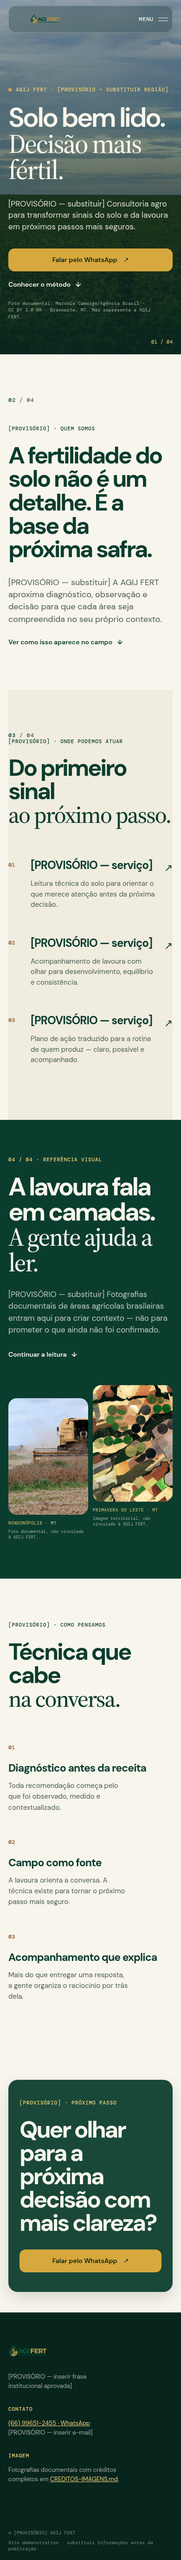
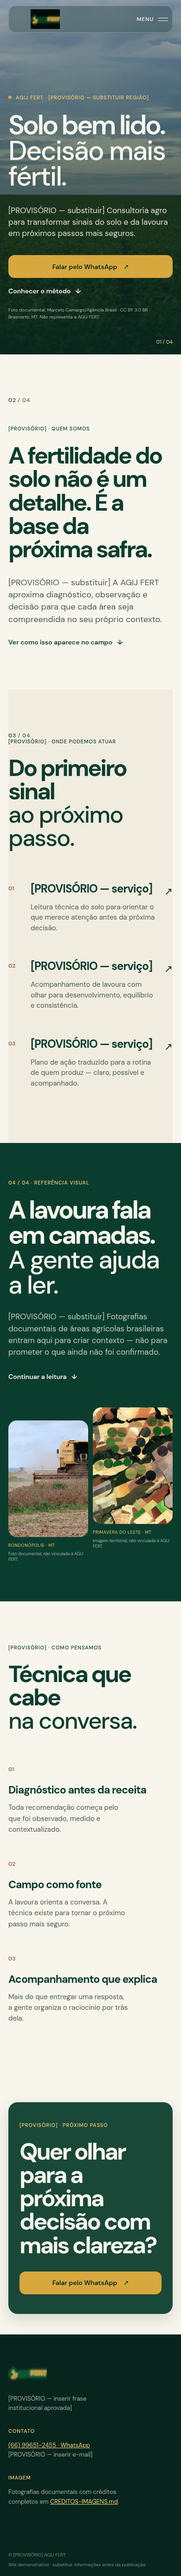
perf: optimize production assets and font loading

diff --git a/src/App.jsx b/src/App.jsx
@@ -17,10 +17,10 @@ const principles = [
   ['03', 'Acompanhamento que explica', 'Mais do que entregar uma resposta, a gente organiza o raciocínio por trás dela.'],
 ]
 
-function ImageFrame({ src, alt, label, caption, className = '' }) {
+function ImageFrame({ src, srcSet, sizes = '(max-width: 760px) 50vw, 45vw', width, height, alt, label, caption, className = '' }) {
   return (
     <figure className={`image-frame ${className}`}>
-      <img src={src} alt={alt} loading="lazy" decoding="async" />
+      <img src={src} srcSet={srcSet} sizes={sizes} width={width} height={height} alt={alt} loading="lazy" decoding="async" />
       <figcaption><span>{label}</span>{caption}</figcaption>
     </figure>
   )
@@ -129,7 +129,7 @@ export default function App() {
         <section className="field-section" id="campo" aria-labelledby="field-title">
           <div className="shell field-layout">
             <div className="field-copy"><p className="eyebrow light">04 / 04 · Referência visual</p><h2 id="field-title">A lavoura fala em camadas. <em>A gente ajuda a ler.</em></h2><p>[PROVISÓRIO — substituir] Fotografias documentais de áreas agrícolas brasileiras entram aqui para criar contexto — não para prometer o que ainda não foi confirmado.</p><a className="text-link light-link" href="#principios">Continuar a leitura <span aria-hidden="true">↓</span></a></div>
-            <div className="field-gallery"><ImageFrame src={images.harvest} alt="Lavoura de soja durante colheita em Rondonópolis, Mato Grosso" label="Rondonópolis · MT" caption="Foto documental, não vinculada à AGIJ FERT." /><ImageFrame src={images.satellite} alt="Imagem aérea de áreas agrícolas em Primavera do Leste, Mato Grosso" label="Primavera do Leste · MT" caption="Imagem territorial, não vinculada à AGIJ FERT." /></div>
+            <div className="field-gallery"><ImageFrame src={images.harvest} srcSet={images.harvestSrcSet} width="900" height="643" alt="Lavoura de soja durante colheita em Rondonópolis, Mato Grosso" label="Rondonópolis · MT" caption="Foto documental, não vinculada à AGIJ FERT." /><ImageFrame src={images.satellite} srcSet={images.satelliteSrcSet} width="900" height="434" alt="Imagem aérea de áreas agrícolas em Primavera do Leste, Mato Grosso" label="Primavera do Leste · MT" caption="Imagem territorial, não vinculada à AGIJ FERT." /></div>
           </div>
         </section>
 

diff --git a/src/assets.js b/src/assets.js
@@ -2,8 +2,10 @@ export const imagePath = (fileName) => `${import.meta.env.BASE_URL}images/optimi
 
 export const images = {
   logo: imagePath('agij-fert-logo.png'),
-  hero: imagePath('soja-brasnorte.webp'),
-  harvest: imagePath('soja-rondonopolis.webp'),
-  satellite: imagePath('soja-primavera-do-leste-aerea.webp'),
-  territory: imagePath('brasil-sao-simao-aerea.webp'),
+  hero: imagePath('soja-brasnorte-1600.webp'),
+  heroSrcSet: `${imagePath('soja-brasnorte-800.webp')} 800w, ${imagePath('soja-brasnorte-1600.webp')} 1600w`,
+  harvest: imagePath('soja-rondonopolis-900.webp'),
+  harvestSrcSet: `${imagePath('soja-rondonopolis-600.webp')} 600w, ${imagePath('soja-rondonopolis-900.webp')} 900w`,
+  satellite: imagePath('soja-primavera-do-leste-aerea-900.webp'),
+  satelliteSrcSet: `${imagePath('soja-primavera-do-leste-aerea-600.webp')} 600w, ${imagePath('soja-primavera-do-leste-aerea-900.webp')} 900w`,
 }

diff --git a/index.html b/index.html
@@ -5,6 +5,10 @@
     <meta name="viewport" content="width=device-width, initial-scale=1.0" />
     <meta name="theme-color" content="#0b3d2e" />
     <meta name="description" content="AGIJ FERT — fertilidade do solo e consultoria agro. Conteúdo provisório para demonstração." />
+    <link rel="preconnect" href="https://fonts.googleapis.com" />
+    <link rel="preconnect" href="https://fonts.gstatic.com" crossorigin />
+    <link rel="stylesheet" href="https://fonts.googleapis.com/css2?family=DM+Sans:wght@400;500;600;700&display=swap" media="print" onload="this.media='all'" />
+    <noscript><link rel="stylesheet" href="https://fonts.googleapis.com/css2?family=DM+Sans:wght@400;500;600;700&display=swap" /></noscript>
     <title>AGIJ FERT | Fertilidade do solo e consultoria agro</title>
   </head>
   <body>

diff --git a/src/styles.css b/src/styles.css
@@ -1,5 +1,3 @@
-@import url('https://fonts.googleapis.com/css2?family=DM+Mono:wght@400;500&family=DM+Sans:wght@400;500;600;700&family=Source+Serif+4:opsz,wght@8..60,500;8..60,600&display=swap');
-
 :root {
   --green-950: #07251d;
   --green-900: #0b3d2e;
@@ -16,9 +14,9 @@
   --glass-surface-light: rgba(248, 245, 236, .72);
   --glass-border: rgba(248, 245, 236, .24);
   --glass-shadow: 0 12px 32px rgba(7, 37, 29, .14);
-  --serif: 'Source Serif 4', Georgia, serif;
   --sans: 'DM Sans', 'Avenir Next', 'Segoe UI', sans-serif;
-  --mono: 'DM Mono', 'SFMono-Regular', Consolas, monospace;
+  --serif: var(--sans);
+  --mono: var(--sans);
   --shell: min(1180px, calc(100vw - 64px));
   color: var(--ink-950);
   background: var(--cream-50);

diff --git a/src/components/Hero.jsx b/src/components/Hero.jsx
@@ -4,7 +4,7 @@ export default function Hero({ whatsappUrl }) {
   return (
     <section className="hero" id="inicio" aria-labelledby="hero-title">
       <div className="hero-media" aria-hidden="true">
-        <img src={images.hero} alt="" fetchPriority="high" decoding="async" />
+        <img src={images.hero} srcSet={images.heroSrcSet} sizes="100vw" width="1600" height="1065" alt="" fetchPriority="high" decoding="async" />
       </div>
       <div className="hero-shade" aria-hidden="true" />
       <div className="hero-content shell">

diff --git a/docs/checklist-qualidade.md b/docs/checklist-qualidade.md
@@ -4,26 +4,26 @@
 
 - Pesquisa direta em fontes oficiais de design, acessibilidade, React, Motion e licenças Creative Commons.
 - Verificação da autoria, localização e licença de quatro imagens brasileiras; cópias locais baixadas e convertidas para WebP.
-- Registro da logo fornecida pelo cliente e upload da cópia otimizada para o metadado do projeto.
 - Diagnósticos de JavaScript, CSS e JSON registrados no WebDev antes da implementação.
-- `npm install` concluído sem vulnerabilidades reportadas e `npm run build` concluído com sucesso após o refinamento.
-- Preview reiniciado com as variáveis sincronizadas em `0.0.0.0:3000`.
-- `GET /` retornou 200, `GET /manus-routes.json` retornou JSON válido e os ativos PNG/WebP retornaram 200 com content-type correto.
-- Capturas desktop 1280×900 e mobile 390×844 realizadas; a versão nova foi comparada com a anterior.
-- Revisão visual confirmou menos bordas e divisórias, ausência de diagramas decorativos, uso pontual de vidro no header/CTA/menu e fotografias sem molduras fortes.
-- Quatro links de WhatsApp foram verificados no DOM com o número `5566996512455` e a mensagem codificada solicitada.
-- Console do navegador confirmou um único `h1`, ausência de overflow horizontal em 1280px e caminhos estáticos compatíveis com subpastas.
-- `prefers-reduced-motion` permanece implementado em CSS; hover, transições e scroll suave são reduzidos quando a preferência está ativa.
+- `npm install` concluído sem vulnerabilidades reportadas e `npm run build` concluído com sucesso.
+- Imagem hero com `fetchPriority="high"`, dimensões definidas e sem lazy loading; imagens de apoio com WebP responsivo, `srcset`, `sizes`, dimensões definidas e lazy loading.
+- Referências de ativos antigos e imagem não utilizada auditadas; nenhum segredo ou token encontrado no código público.
+- Preview respondeu 200; manifesto de rotas retornou JSON válido; variantes WebP retornaram 200 com content-type correto.
+- Capturas desktop 1280×900 e mobile 390×844 realizadas depois da otimização.
+- Console do navegador confirmou fonte DM Sans, um único `h1`, `loading="auto"` no hero, `loading="lazy"` nas imagens de apoio e ausência de overflow horizontal.
+- Quatro links de WhatsApp foram verificados com o número `5566996512455` e a mensagem exata em texto decodificado.
+- O repositório GitHub exato foi localizado e lido: `nluttllbg/AGIJ-FERT-SITE`, público e vazio.
 
 ## Verificações pendentes
 
-- Teste manual do menu mobile em viewport interativo real, além da captura mobile e da verificação do estado React.
-- Contraste real com ferramenta automatizada; a documentação WCAG é critério, não prova de teste executado.
+- Lighthouse não executado porque o comando não está instalado no ambiente; nenhuma pontuação foi declarada.
+- Contraste real com ferramenta automatizada.
+- Teste manual do menu mobile em viewport interativo real.
 - Teste de `prefers-reduced-motion` com a preferência do sistema efetivamente ativa.
-- Verificação de todos os caminhos em um domínio GitHub Pages real e subpasta real.
+- Envio para GitHub, criação do workflow, ajuste do `base` para `/AGIJ-FERT-SITE/` e publicação no Pages dependem de confirmação explícita.
 - Confirmação do cliente sobre licenças e atribuições antes da publicação comercial.
 - Substituição de todos os textos, serviços, região, e-mail e frase institucional marcados como provisórios.
 
 ## Critérios de aceitação
 
-A entrega só deve ser considerada pronta para publicação depois de substituir todos os marcadores provisórios, confirmar contatos e serviços, revisar os créditos visíveis e obter aprovação da AGIJ FERT para as fotografias e textos.
+A entrega só deve ser considerada pronta para publicação depois de substituir todos os marcadores provisórios, confirmar contatos e serviços, revisar os créditos visíveis, obter aprovação da AGIJ FERT para fotografias e textos e concluir o deploy autorizado no GitHub Pages.

diff --git a/CREDITOS-IMAGENS.md b/CREDITOS-IMAGENS.md
@@ -1,6 +1,6 @@
 # Créditos e origem das imagens — AGIJ FERT
 
-Este arquivo documenta os ativos visuais locais usados na demonstração. As imagens foram baixadas de páginas do Wikimedia Commons que exibem os dados de autoria, descrição e licença. A presença de uma fotografia no site não indica que a área, propriedade, pessoas, equipamentos ou atividade pertençam à AGIJ FERT, sejam clientes da empresa ou representem sua equipe.
+Este arquivo documenta os ativos visuais locais usados na demonstração. As imagens foram baixadas de páginas do Wikimedia Commons que exibem os dados de autoria, descrição e licença. A presença de uma fotografia no site não indica que a área, propriedade, pessoas, equipamentos ou atividade pertençam à AGIJ FERT, sejam clientes da empresa ou representem sua equipe. Os arquivos publicados ficam em `public/images/optimized/`; os originais preservados para auditoria ficam em `docs/source-images/` e não entram na saída estática.
 
 ## 1. `public/images/optimized/soja-brasnorte.webp`
 
@@ -20,13 +20,7 @@ Este arquivo documenta os ativos visuais locais usados na demonstração. As ima
 
 **Atribuição curta para o site:** “Imagem: SentinelHub, dados Copernicus Sentinel — CC BY 2.0.”
 
-## 4. `public/images/optimized/brasil-sao-simao-aerea.webp`
-
-**Uso no site:** apoio visual de escala e paisagem agrícola brasileira. **O que representa:** imagem feita por integrante da tripulação da Expedition 16 na Estação Espacial Internacional sobre o reservatório de São Simão, na fronteira entre Goiás e Minas Gerais; a descrição informa áreas agrícolas com milho, soja e outras culturas na região. **Localização confirmada na fonte:** região do reservatório de São Simão, Brasil, próxima às coordenadas informadas na página. **Autoria:** NASA Goddard Space Flight Center / ISS. **Licença informada na página:** CC BY 2.0 e indicação de domínio público para material criado exclusivamente pela NASA nos termos descritos na própria página; a atribuição será mantida por prudência. **Fonte e política:** [Wikimedia Commons — Brazil (14214279557).jpg](https://commons.wikimedia.org/wiki/File:Brazil_(14214279557).jpg) e [NASA Image Use Policy](https://www.nasa.gov/audience/formedia/features/MP_Photo_Guidelines.html). **Alterações:** cópia local, redução de resolução e conversão para WebP; recorte responsivo apenas por CSS.
-
-**Atribuição curta para o site:** “Imagem: NASA Goddard Space Flight Center / ISS — CC BY 2.0; uso conforme política de imagens da NASA.”
-
-## 5. Logo fornecida pelo cliente
+## 4. Logo fornecida pelo cliente
 
 `public/images/optimized/agij-fert-logo.png` é uma cópia otimizada do arquivo fornecido pelo cliente em 21 de outubro de 2026. Não há licença externa a atribuir neste projeto. A logo deve ser tratada como marca da AGIJ FERT e não deve ser alterada, redesenhada ou apresentada como um ativo de terceiros.
 

diff --git a/docs/github-pages-plan.md b/docs/github-pages-plan.md
@@ -1,0 +1,25 @@
+# Plano de envio e publicação — AGIJ FERT
+
+## Destino identificado
+
+A conta GitHub autenticada é `nluttllbg`. O repositório com correspondência exata ao identificador informado é [`nluttllbg/AGIJ-FERT-SITE`](https://github.com/nluttllbg/AGIJ-FERT-SITE). Ele é público, está vazio, não possui README, não possui branch padrão configurada e não apresenta workflow ou configuração de GitHub Pages para preservar.
+
+Há outros repositórios acessíveis com nomes semelhantes (`Agij`, `AGIJ-` e `AGIJ-FERT-teste`), mas não são o nome exato informado e não serão usados sem nova instrução.
+
+## Proposta ainda não executada
+
+Após confirmação explícita, enviar o código-fonte atual para `nluttllbg/AGIJ-FERT-SITE` na branch `main`, usando um commit claro. Como o repositório está vazio, não há conteúdo pré-existente a substituir, mas o envio ainda será feito sem force push.
+
+A publicação proposta é GitHub Pages via GitHub Actions: instalar dependências com `npm ci`, executar `npm run build`, publicar `dist/` com as actions oficiais de Pages e ajustar o `base` do Vite para o caminho real `/AGIJ-FERT-SITE/`. O `base: './'` atual mantém o preview e os assets relativos estáveis; para Pages, o ajuste para a subpasta real será aplicado somente após aprovação.
+
+O workflow não será criado, nenhuma configuração do repositório será alterada, nenhum branch será criado e nenhum push será feito antes da confirmação do responsável.
+
+## Alterações locais preparadas
+
+As fotografias usadas foram redimensionadas para os tamanhos de uso, convertidas para WebP em variantes `600/800/900/1600`, receberam `srcset`, `sizes`, dimensões intrínsecas e carregamento lazy fora da primeira dobra. A foto principal usa `fetchPriority="high"` e não usa lazy loading. A foto não utilizada foi removida da saída pública; os originais preservados estão em `docs/source-images/`, fora do build estático.
+
+A tipografia foi unificada para uma família DM Sans com os pesos necessários, e o carregamento remoto foi movido para um stylesheet não bloqueante com fallback. Não há secrets ou tokens no código; `node_modules/` e `dist/` ficam fora do versionamento.
+
+## Confirmação necessária
+
+Confirmar exatamente: enviar para `nluttllbg/AGIJ-FERT-SITE`, branch `main`, criar workflow de GitHub Pages, ajustar base para `/AGIJ-FERT-SITE/` e tornar o site publicamente acessível. Sem essa confirmação, o projeto permanece apenas no ambiente atual.

diff --git a/docs/production-optimization.md b/docs/production-optimization.md
@@ -1,0 +1,17 @@
+# Otimização de produção — resultados reais
+
+## Alterações executadas
+
+A imagem hero passou a usar variantes WebP de 800px e 1600px via `srcset` e `sizes`, com `width`/`height` definidos, `fetchPriority="high"`, `decoding="async"` e sem `loading="lazy"`. As fotografias de apoio usam variantes WebP de 600px e 900px, `loading="lazy"`, `decoding="async"`, `srcset`, `sizes` e dimensões intrínsecas. As variantes antigas maiores e a imagem não utilizada foram removidas da pasta pública.
+
+A tipografia foi reduzida a DM Sans nos pesos 400, 500, 600 e 700. O stylesheet remoto agora é carregado de forma não bloqueante com `preconnect`, `media="print"` e fallback via `noscript`. O CSS continua legível no código-fonte e o Vite minifica CSS/JS no build.
+
+As superfícies com blur ficaram restritas ao header, menu mobile, modal preservado no código e CTA final. Não foram adicionadas bibliotecas de animação ou dependências novas. A redução de movimento continua coberta por `prefers-reduced-motion`.
+
+## Resultados verificados
+
+`npm run build` concluiu com sucesso. A saída reportou `dist/index.html` de 1,07 kB, CSS minificado de 13,10 kB (3,68 kB gzip) e JavaScript minificado de 233,21 kB (72,82 kB gzip). O preview respondeu 200, o manifesto de rotas retornou JSON válido e todas as variantes WebP referenciadas retornaram 200 com `image/webp`.
+
+No navegador, foi confirmado um único `h1`, fonte DM Sans disponível, imagem hero com `loading="auto"`, imagens de apoio com `loading="lazy"`, ausência de overflow horizontal e quatro links de WhatsApp contendo o número `5566996512455` e a mensagem solicitada em texto decodificado. Foram capturadas revisões em 1280×900 e 390×844.
+
+Lighthouse não estava instalado no ambiente, portanto nenhuma pontuação foi inventada. Ainda estão pendentes um teste Lighthouse real, a validação de contraste com ferramenta automatizada e o teste manual do menu mobile em viewport interativo real.

diff --git a/TODO.md b/TODO.md
@@ -22,6 +22,8 @@
 - [x] A página declara a rota `/` em `public/manus-routes.json` e usa `base: './'` no build para subpastas.
 - [x] Refinar a direção para Liquid Glass contido: header e menu translúcidos, CTA final com profundidade sutil, menos bordas/divisórias e nenhuma decoração em diagrama.
 - [x] Manter o botão principal, header, CTA final e contato do rodapé ligados ao WhatsApp `(66) 99651-2455` com a mensagem fornecida.
+- [x] Redimensionar fotografias, gerar variantes WebP, adicionar `srcset`/`sizes`, dimensões intrínsecas e lazy loading apenas fora da primeira dobra.
+- [x] Unificar a fonte em DM Sans, carregar o stylesheet sem bloquear a leitura e remover referências de ativos não utilizados da saída pública.
 
 ## 3. Revisão e entrega
 
@@ -32,3 +34,4 @@
 - [x] Registrar testes realizados, problemas corrigidos e verificações pendentes em `docs/checklist-qualidade.md`.
 - [ ] Testar menu mobile diretamente em viewport interativo, ativar `prefers-reduced-motion` no navegador e validar contraste com ferramenta automatizada.
 - [ ] Salvar checkpoint com os arquivos intencionais no repositório canônico; não publicar sem autorização explícita.
+- [ ] Após confirmação explícita, enviar para `nluttllbg/AGIJ-FERT`, branch `main`, criar workflow de GitHub Pages, ajustar o base para `/AGIJ-FERT-SITE/` e verificar a URL publicada.
